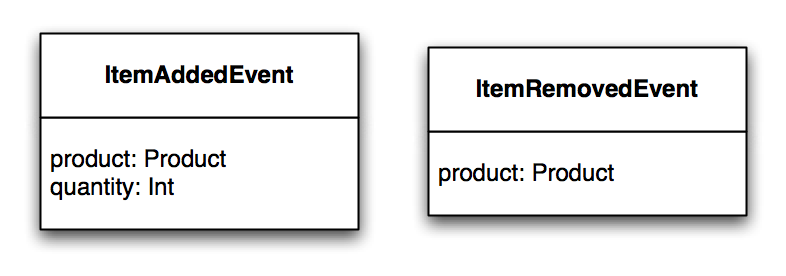
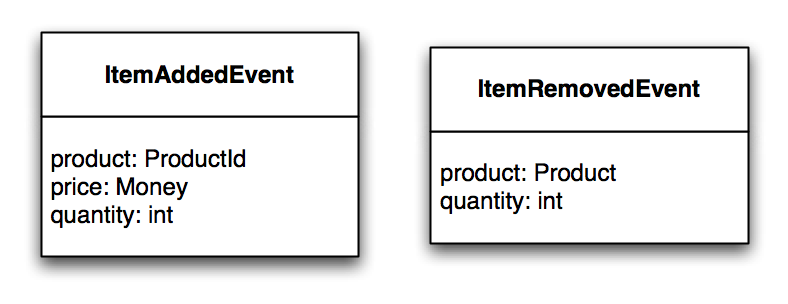
Remove most of the remaining TODOs.

diff --git a/cqrs.html b/cqrs.html
@@ -76,8 +76,8 @@
 			</header>
       <ul>
         <li>popularised by Greg Young</li>
-        <li>CQS applied on an architectural level</li>
         <li>Domain-driven Design (DDD)</li>
+        <li>CQS applied on an architectural level</li>
         <li>Command-query responsibility segregation</li>
       </ul>
 		</section>
@@ -170,8 +170,11 @@
       </ul>
 		</section>
 	</div></div>
-	<div class="slide" id="TraditionalArchitecture"><div>
+	<div class="slide bigImage" id="TraditionalArchitecture"><div>
 		<section>
+		  <header>
+  	   <h2>A Traditional Layered Architecture</h2>
+  	  </header>
      <object width="614" height="460" data="pictures/traditional_architecture.svg" type="image/svg+xml" class="middle"></object>
 		</section>
 	</div></div>
@@ -187,13 +190,6 @@
         <li>Unnecessarily complex</li>
         <li>Does neither well</li>
       </ul>
-		</section>
-	</div></div>
-	<div class="slide" id="WriteAndReadModel"><div>
-		<section>
-			<header>
-				<h2>TODO: Diagram of Write/Read Model</h2>
-			</header>
 		</section>
 	</div></div>
 	<div class="slide" id="SeparatedModel"><div>
@@ -319,7 +315,7 @@
 				<h2>Event Sourcing</h2>
 			</header>
     	<ul>
-        <li>Capture each state of application state in an event</li>
+        <li>Capture each update of application state in an event</li>
         <li>All changes to domain objects occur by applying events to them</li>
         <li>Events are immutable</li>
         <li>Events state what has happened at a specific time</li>
@@ -368,10 +364,8 @@
 		</section>
 	</div></div>
 	<div class="slide" id="AddItemCommandClass"><div>
-		<section>
-			<header>
-				<h2>TODO: Class Diagram of AddItemCommand</h2>
-			</header>
+    <section>
+      <img src="pictures/cart_command.png" class="middle" alt="">
 		</section>
 	</div></div>
 	<div class="slide" id="AddItemCommand"><div>
@@ -395,7 +389,7 @@
 			<blockquote>
 				<p>A cluster of associated objects that are treated as a unit for the purpose of data changes. External references are restricted to one member of the aggregate, designated as the root. A set of consistency rules applies within the aggregate's boundaries.</p>
 			</blockquote>
-			<p>(Eric Evans, Source: <a href="http://domaindrivendesign.org/node/88" target="_blank">http://domaindrivendesign.org/node/88</a>)</p>
+			<p>(Eric Evans, Source: <a href="http://domaindrivendesign.org/resources/ddd_terms" target="_blank">http://domaindrivendesign.org/resources/ddd_terms</a>)</p>
 		</section>
 	</div></div>
 	<div class="slide bigImage" id="CqrsBasedArchitectureRepository"><div>
@@ -448,9 +442,9 @@
 				<h2>Frameworks and Libaries</h2>
 			</header>
 			<ul>
-				<li>Axon Framework (Java)</li>
+				<li><a href="http://axonframework.org" target="_blank">Axon</a> (Java)</li>
+				<li><a href="http://lokad.github.com/lokad-cqrs" target="_blank">Lokad</a> (.NET)</li>
 				<li>Eve (Clojure)</li>
-				<li>some .NET framework</li>
 			</ul>
 		</section>
 	</div></div>
